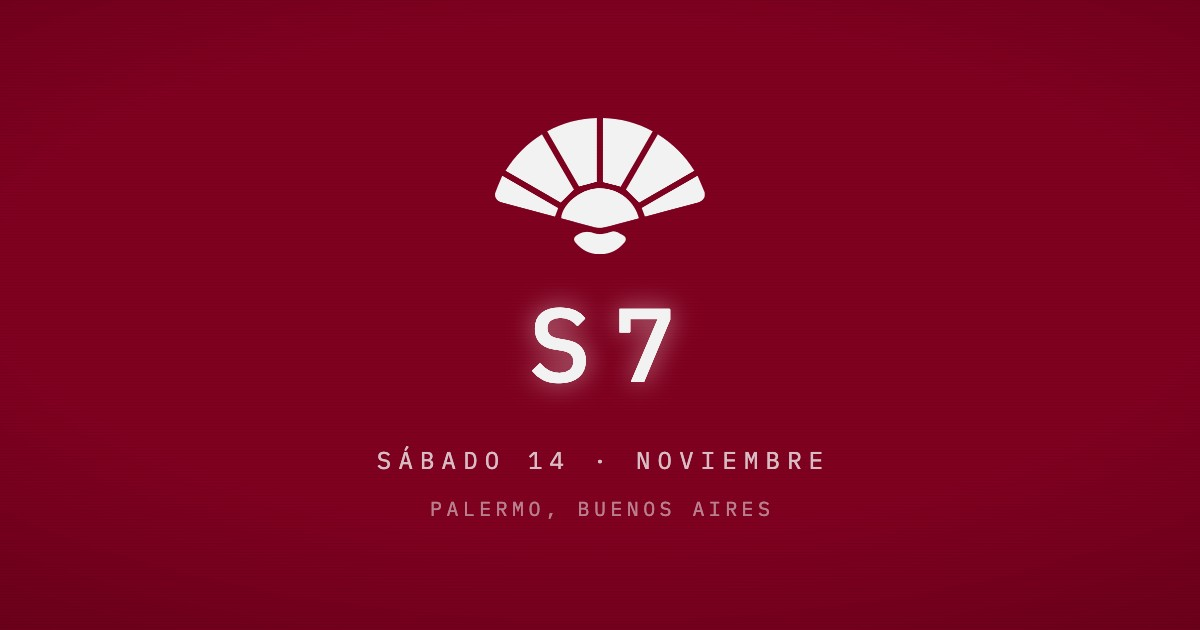
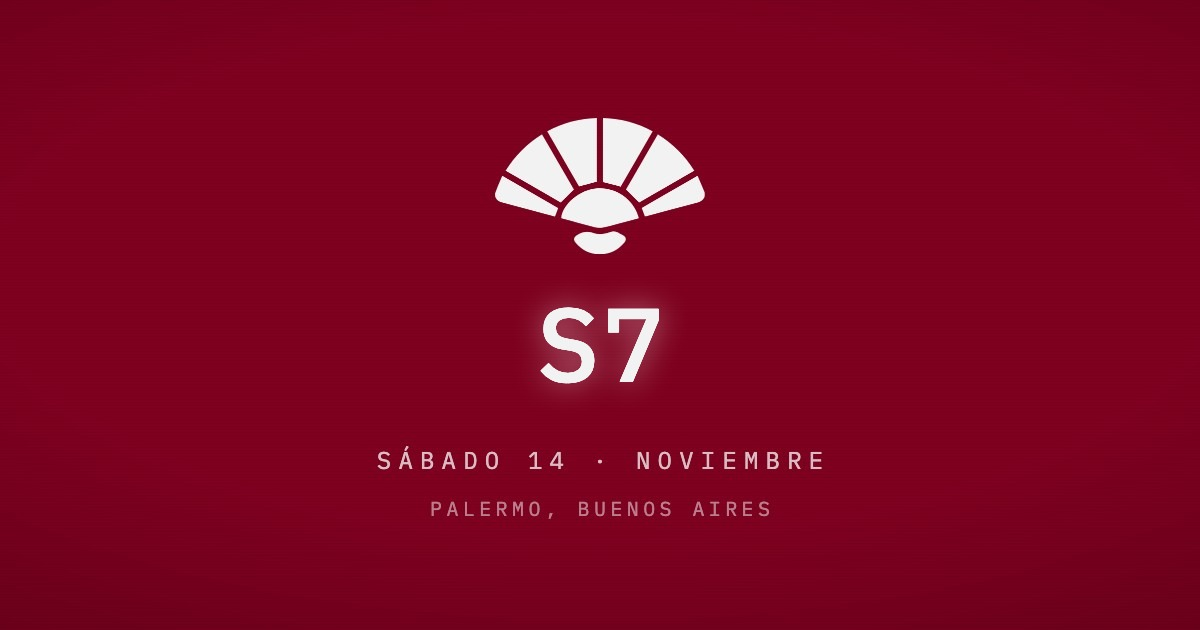
S7 junto
La S y el 7 casi pegados (.03em, antes .22) y centrados midiendo la tinta,
en /s7, en la tarjeta del perfil y en la imagen de compartir (con versión
nueva en el link para que las redes la vuelvan a buscar).

Changed region(s): [[0.4317, 0.4825, 0.5858, 0.6032]]

diff --git a/s7/index.html b/s7/index.html
@@ -10,7 +10,7 @@
 <meta property="og:url" content="https://www.sekito.ar/s7">
 <meta property="og:title" content="SEKI SÉPTIMA">
 <meta property="og:description" content="Sábado 14 de noviembre · Palermo, Buenos Aires. Tanda sekreta desde el portal.">
-<meta property="og:image" content="https://www.sekito.ar/images/tarjeta-s7.jpg?v=s7">
+<meta property="og:image" content="https://www.sekito.ar/images/tarjeta-s7.jpg?v=s7b">
 <meta property="og:image:type" content="image/jpeg">
 <meta property="og:image:width" content="1200">
 <meta property="og:image:height" content="630">
@@ -113,14 +113,16 @@
     opacity:0;
   }
   /* el tracking va solo entre letras: el espacio de más que deja después de
-     la última se compensa a la izquierda, y el S7 queda centrado de verdad */
+     la última se compensa a la izquierda, y el S7 queda centrado de verdad.
+     Desde el 07/10 la S y el 7 van casi pegados (.03em; antes .22em), igual
+     en la historia, en el perfil y en la tarjeta de compartir */
   .nombre .piedra{
     display:inline-block;
-    letter-spacing:.22em;
-    padding-left:.22em;
-    /* el "7" carga la tinta a la izquierda de su lugar: medido, el S7 queda
-       1 px corrido a 58 px de letra. Se compensa para que se vea centrado */
-    position:relative; left:.022em;
+    letter-spacing:.03em;
+    padding-left:.03em;
+    /* el "7" carga la tinta a la izquierda de su lugar: medido sobre la
+       tinta, el S7 queda centrado corriéndolo .014em */
+    position:relative; left:.014em;
     color:var(--white);
     filter:drop-shadow(0 0 8px rgba(255,255,255,.3));
   }

diff --git a/index.html b/index.html
@@ -834,8 +834,8 @@
   }
   /* S7, como en sekito.ar/s7: blanco, con el halo que respira */
   .s7-nombre{
-    font-size:33px; letter-spacing:.26em; text-indent:.26em;
-    left:.022em;   /* el "7" carga la tinta a la izquierda: se compensa */
+    font-size:33px; letter-spacing:.03em; text-indent:.03em;   /* casi pegados, como en /s7 */
+    left:.014em;   /* el "7" carga la tinta a la izquierda: se compensa */
     color:var(--white);
     text-shadow:0 0 22px rgba(0,0,0,.55);
     filter:drop-shadow(0 0 8px rgba(255,255,255,.3));
